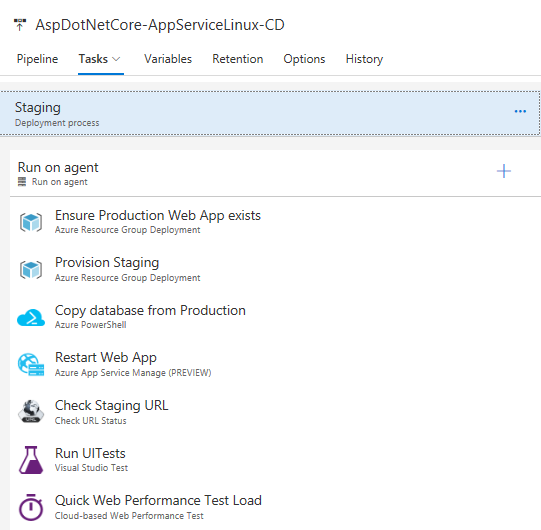
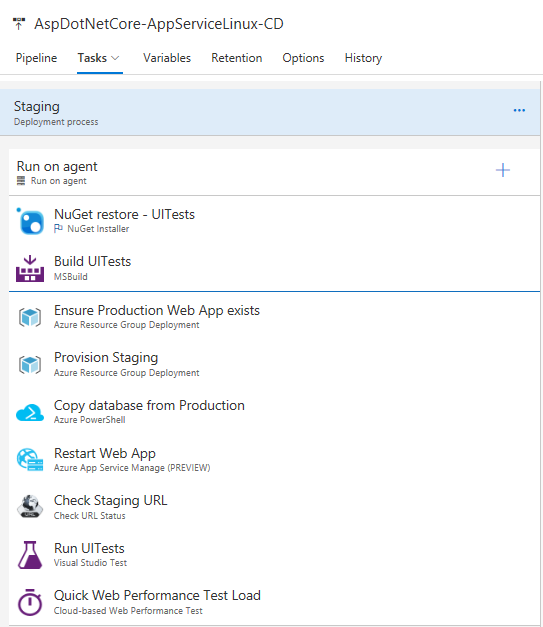
Build UITest in CD for Linux.

diff --git a/docs/AspDotNetCore-AppServiceLinux-CD.md b/docs/AspDotNetCore-AppServiceLinux-CD.md
@@ -29,6 +29,12 @@ TODO
 - Location = East US
 
 ### Steps 
+- NuGet restore - UITests
+  - NuGet Installer
+  - TODO
+- Build UI Tests
+  - Type = MSBuild
+  - TODO
 - Ensure Production Web App exists
   - Type = Azure Resource Group Deployment
   - Version = 2.*
